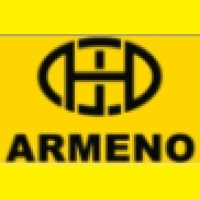
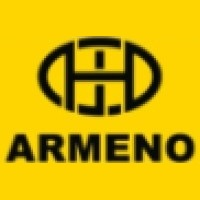
exeriance section changes

diff --git a/src/constants/index.js b/src/constants/index.js
@@ -133,7 +133,7 @@ import {
       title: "Digital Twin Engineer",
       company_name: "Armeno Co.",
       icon: Armeno,
-      iconBg: "RGB(255, 242, 0)",
+      iconBg: "RGB(254, 213, 1)",
       date: " July 2021 - January 2022",
       points: [
         "Co-designed project concepts, sketches, modeling, diagrams, quantity calculations and final working drawings for 3 projects.",
